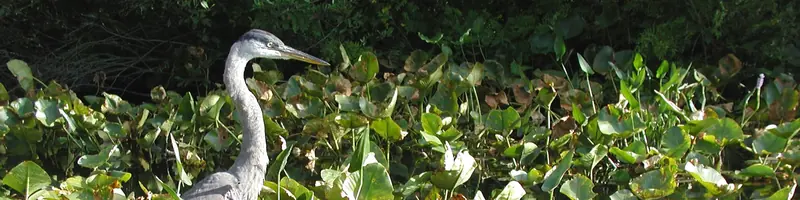
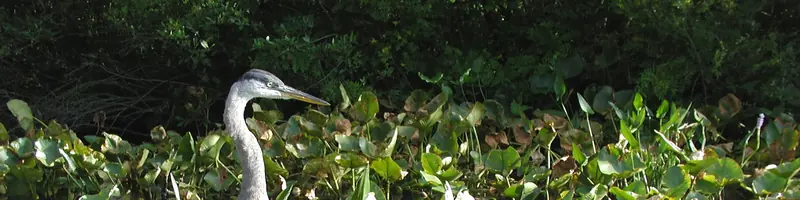
Draft 81: the heron first (its first framing restored), the flying squirrel second, then colour and grey alternating
Claude-Session: https://claude.ai/code/session_01HMuVy4MP32mW96WdEuAjrt

diff --git a/index.html b/index.html
@@ -61,9 +61,9 @@ document.documentElement.classList.add('js');try{var t=localStorage.getItem('ps-
   (https://www.facebook.com/projectscroll/) that you came in through the back door.
 -->
 <a class="skip" href="#main">Skip to the content</a>
-<aside class="masthead" id="masthead" aria-label="Plates from the record" data-set="rogers|Rogers, History of Cass County, 1875, p. 253|50% 38%|/document/;heron-leaves|A heron in the lily pads, autumn|50% 45%|;roadtotown|The road to town, Cassopolis, on an old postcard|50% 62%|/map/cassopolis/;wallmap|The 1860 wall map of the county, at the Library of Congress|50% 50%|/map/;broadway1|Broadway, Cassopolis, in the days of wagons|50% 55%|/map/cassopolis/;bellin|Bellin’s Carte des Lacs du Canada, 1744|50% 50%|;carriages|Carriages drawn up on Broadway, Cassopolis|50% 55%|/map/cassopolis/;squirrel|A flying squirrel over the water at night|50% 50%|;yerty|West side of Broadway looking south, Cassopolis, a Yerty postcard|50% 60%|/map/cassopolis/;wallmap2|The 1860 wall map, lower sheet|50% 50%|/map/;broadway3|Broadway, Cassopolis, when the first cars came|50% 55%|/map/cassopolis/;packtrain|Four men, a string of mules and a dusty street|50% 45%|/#hunt;spark|Light and fire meet|50% 50%|;broadway2|A Cassopolis street, early 1900s|50% 55%|/map/cassopolis/;school|A country schoolhouse in the oaks|50% 55%|/#cases">
-  <picture class="mh-pic on"><source media="(max-width:700px)" srcset="/img/strip/rogers-800.webp"><img src="/img/strip/rogers.webp" width="1600" height="400" alt="" fetchpriority="low" decoding="async"></picture>
-  <p class="mh-cap"><span class="mh-n">1 / 15</span> Rogers, History of Cass County, 1875, p. 253</p>
+<aside class="masthead" id="masthead" aria-label="Plates from the record" data-set="heron-leaves|A heron in the lily pads, autumn|50% 50%|;squirrel|A flying squirrel over the water at night|50% 50%|;rogers|Rogers, History of Cass County, 1875, p. 253|50% 38%|/document/;spark|Light and fire meet|50% 50%|;roadtotown|The road to town, Cassopolis, on an old postcard|50% 62%|/map/cassopolis/;wallmap|The 1860 wall map of the county, at the Library of Congress|50% 50%|/map/;broadway1|Broadway, Cassopolis, in the days of wagons|50% 55%|/map/cassopolis/;bellin|Bellin’s Carte des Lacs du Canada, 1744|50% 50%|;yerty|West side of Broadway looking south, Cassopolis, a Yerty postcard|50% 60%|/map/cassopolis/;wallmap2|The 1860 wall map, lower sheet|50% 50%|/map/;carriages|Carriages drawn up on Broadway, Cassopolis|50% 55%|/map/cassopolis/;broadway3|Broadway, Cassopolis, when the first cars came|50% 55%|/map/cassopolis/;packtrain|Four men, a string of mules and a dusty street|50% 45%|/#hunt;broadway2|A Cassopolis street, early 1900s|50% 55%|/map/cassopolis/;school|A country schoolhouse in the oaks|50% 55%|/#cases">
+  <picture class="mh-pic on"><source media="(max-width:700px)" srcset="/img/strip/heron-leaves-800.webp"><img src="/img/strip/heron-leaves.webp" width="1600" height="400" alt="" fetchpriority="low" decoding="async"></picture>
+  <p class="mh-cap"><span class="mh-n">1 / 15</span> A heron in the lily pads, autumn</p>
   <button type="button" class="mh-next" aria-label="Next plate" title="Next plate">›</button>
 </aside>
 <header class="bar"><span class="progress" aria-hidden="true"></span>

diff --git a/404.html b/404.html
@@ -33,9 +33,9 @@
 </head>
 <body>
 <a class="skip" href="#main">Skip to the content</a>
-<aside class="masthead" id="masthead" aria-label="Plates from the record" data-set="rogers|Rogers, History of Cass County, 1875, p. 253|50% 38%|/document/;heron-leaves|A heron in the lily pads, autumn|50% 45%|;roadtotown|The road to town, Cassopolis, on an old postcard|50% 62%|/map/cassopolis/;wallmap|The 1860 wall map of the county, at the Library of Congress|50% 50%|/map/;broadway1|Broadway, Cassopolis, in the days of wagons|50% 55%|/map/cassopolis/;bellin|Bellin’s Carte des Lacs du Canada, 1744|50% 50%|;carriages|Carriages drawn up on Broadway, Cassopolis|50% 55%|/map/cassopolis/;squirrel|A flying squirrel over the water at night|50% 50%|;yerty|West side of Broadway looking south, Cassopolis, a Yerty postcard|50% 60%|/map/cassopolis/;wallmap2|The 1860 wall map, lower sheet|50% 50%|/map/;broadway3|Broadway, Cassopolis, when the first cars came|50% 55%|/map/cassopolis/;packtrain|Four men, a string of mules and a dusty street|50% 45%|/#hunt;spark|Light and fire meet|50% 50%|;broadway2|A Cassopolis street, early 1900s|50% 55%|/map/cassopolis/;school|A country schoolhouse in the oaks|50% 55%|/#cases">
-  <picture class="mh-pic on"><source media="(max-width:700px)" srcset="/img/strip/rogers-800.webp"><img src="/img/strip/rogers.webp" width="1600" height="400" alt="" fetchpriority="low" decoding="async"></picture>
-  <p class="mh-cap"><span class="mh-n">1 / 15</span> Rogers, History of Cass County, 1875, p. 253</p>
+<aside class="masthead" id="masthead" aria-label="Plates from the record" data-set="heron-leaves|A heron in the lily pads, autumn|50% 50%|;squirrel|A flying squirrel over the water at night|50% 50%|;rogers|Rogers, History of Cass County, 1875, p. 253|50% 38%|/document/;spark|Light and fire meet|50% 50%|;roadtotown|The road to town, Cassopolis, on an old postcard|50% 62%|/map/cassopolis/;wallmap|The 1860 wall map of the county, at the Library of Congress|50% 50%|/map/;broadway1|Broadway, Cassopolis, in the days of wagons|50% 55%|/map/cassopolis/;bellin|Bellin’s Carte des Lacs du Canada, 1744|50% 50%|;yerty|West side of Broadway looking south, Cassopolis, a Yerty postcard|50% 60%|/map/cassopolis/;wallmap2|The 1860 wall map, lower sheet|50% 50%|/map/;carriages|Carriages drawn up on Broadway, Cassopolis|50% 55%|/map/cassopolis/;broadway3|Broadway, Cassopolis, when the first cars came|50% 55%|/map/cassopolis/;packtrain|Four men, a string of mules and a dusty street|50% 45%|/#hunt;broadway2|A Cassopolis street, early 1900s|50% 55%|/map/cassopolis/;school|A country schoolhouse in the oaks|50% 55%|/#cases">
+  <picture class="mh-pic on"><source media="(max-width:700px)" srcset="/img/strip/heron-leaves-800.webp"><img src="/img/strip/heron-leaves.webp" width="1600" height="400" alt="" fetchpriority="low" decoding="async"></picture>
+  <p class="mh-cap"><span class="mh-n">1 / 15</span> A heron in the lily pads, autumn</p>
   <button type="button" class="mh-next" aria-label="Next plate" title="Next plate">›</button>
 </aside>
 <header class="bar">

diff --git a/about/index.html b/about/index.html
@@ -33,9 +33,9 @@
 </head>
 <body>
 <a class="skip" href="#main">Skip to the content</a>
-<aside class="masthead" id="masthead" aria-label="Plates from the record" data-set="rogers|Rogers, History of Cass County, 1875, p. 253|50% 38%|/document/;heron-leaves|A heron in the lily pads, autumn|50% 45%|;roadtotown|The road to town, Cassopolis, on an old postcard|50% 62%|/map/cassopolis/;wallmap|The 1860 wall map of the county, at the Library of Congress|50% 50%|/map/;broadway1|Broadway, Cassopolis, in the days of wagons|50% 55%|/map/cassopolis/;bellin|Bellin’s Carte des Lacs du Canada, 1744|50% 50%|;carriages|Carriages drawn up on Broadway, Cassopolis|50% 55%|/map/cassopolis/;squirrel|A flying squirrel over the water at night|50% 50%|;yerty|West side of Broadway looking south, Cassopolis, a Yerty postcard|50% 60%|/map/cassopolis/;wallmap2|The 1860 wall map, lower sheet|50% 50%|/map/;broadway3|Broadway, Cassopolis, when the first cars came|50% 55%|/map/cassopolis/;packtrain|Four men, a string of mules and a dusty street|50% 45%|/#hunt;spark|Light and fire meet|50% 50%|;broadway2|A Cassopolis street, early 1900s|50% 55%|/map/cassopolis/;school|A country schoolhouse in the oaks|50% 55%|/#cases">
-  <picture class="mh-pic on"><source media="(max-width:700px)" srcset="/img/strip/rogers-800.webp"><img src="/img/strip/rogers.webp" width="1600" height="400" alt="" fetchpriority="low" decoding="async"></picture>
-  <p class="mh-cap"><span class="mh-n">1 / 15</span> Rogers, History of Cass County, 1875, p. 253</p>
+<aside class="masthead" id="masthead" aria-label="Plates from the record" data-set="heron-leaves|A heron in the lily pads, autumn|50% 50%|;squirrel|A flying squirrel over the water at night|50% 50%|;rogers|Rogers, History of Cass County, 1875, p. 253|50% 38%|/document/;spark|Light and fire meet|50% 50%|;roadtotown|The road to town, Cassopolis, on an old postcard|50% 62%|/map/cassopolis/;wallmap|The 1860 wall map of the county, at the Library of Congress|50% 50%|/map/;broadway1|Broadway, Cassopolis, in the days of wagons|50% 55%|/map/cassopolis/;bellin|Bellin’s Carte des Lacs du Canada, 1744|50% 50%|;yerty|West side of Broadway looking south, Cassopolis, a Yerty postcard|50% 60%|/map/cassopolis/;wallmap2|The 1860 wall map, lower sheet|50% 50%|/map/;carriages|Carriages drawn up on Broadway, Cassopolis|50% 55%|/map/cassopolis/;broadway3|Broadway, Cassopolis, when the first cars came|50% 55%|/map/cassopolis/;packtrain|Four men, a string of mules and a dusty street|50% 45%|/#hunt;broadway2|A Cassopolis street, early 1900s|50% 55%|/map/cassopolis/;school|A country schoolhouse in the oaks|50% 55%|/#cases">
+  <picture class="mh-pic on"><source media="(max-width:700px)" srcset="/img/strip/heron-leaves-800.webp"><img src="/img/strip/heron-leaves.webp" width="1600" height="400" alt="" fetchpriority="low" decoding="async"></picture>
+  <p class="mh-cap"><span class="mh-n">1 / 15</span> A heron in the lily pads, autumn</p>
   <button type="button" class="mh-next" aria-label="Next plate" title="Next plate">›</button>
 </aside>
 <header class="bar">

diff --git a/badges/index.html b/badges/index.html
@@ -33,9 +33,9 @@
 </head>
 <body>
 <a class="skip" href="#main">Skip to the content</a>
-<aside class="masthead" id="masthead" aria-label="Plates from the record" data-set="rogers|Rogers, History of Cass County, 1875, p. 253|50% 38%|/document/;heron-leaves|A heron in the lily pads, autumn|50% 45%|;roadtotown|The road to town, Cassopolis, on an old postcard|50% 62%|/map/cassopolis/;wallmap|The 1860 wall map of the county, at the Library of Congress|50% 50%|/map/;broadway1|Broadway, Cassopolis, in the days of wagons|50% 55%|/map/cassopolis/;bellin|Bellin’s Carte des Lacs du Canada, 1744|50% 50%|;carriages|Carriages drawn up on Broadway, Cassopolis|50% 55%|/map/cassopolis/;squirrel|A flying squirrel over the water at night|50% 50%|;yerty|West side of Broadway looking south, Cassopolis, a Yerty postcard|50% 60%|/map/cassopolis/;wallmap2|The 1860 wall map, lower sheet|50% 50%|/map/;broadway3|Broadway, Cassopolis, when the first cars came|50% 55%|/map/cassopolis/;packtrain|Four men, a string of mules and a dusty street|50% 45%|/#hunt;spark|Light and fire meet|50% 50%|;broadway2|A Cassopolis street, early 1900s|50% 55%|/map/cassopolis/;school|A country schoolhouse in the oaks|50% 55%|/#cases">
-  <picture class="mh-pic on"><source media="(max-width:700px)" srcset="/img/strip/rogers-800.webp"><img src="/img/strip/rogers.webp" width="1600" height="400" alt="" fetchpriority="low" decoding="async"></picture>
-  <p class="mh-cap"><span class="mh-n">1 / 15</span> Rogers, History of Cass County, 1875, p. 253</p>
+<aside class="masthead" id="masthead" aria-label="Plates from the record" data-set="heron-leaves|A heron in the lily pads, autumn|50% 50%|;squirrel|A flying squirrel over the water at night|50% 50%|;rogers|Rogers, History of Cass County, 1875, p. 253|50% 38%|/document/;spark|Light and fire meet|50% 50%|;roadtotown|The road to town, Cassopolis, on an old postcard|50% 62%|/map/cassopolis/;wallmap|The 1860 wall map of the county, at the Library of Congress|50% 50%|/map/;broadway1|Broadway, Cassopolis, in the days of wagons|50% 55%|/map/cassopolis/;bellin|Bellin’s Carte des Lacs du Canada, 1744|50% 50%|;yerty|West side of Broadway looking south, Cassopolis, a Yerty postcard|50% 60%|/map/cassopolis/;wallmap2|The 1860 wall map, lower sheet|50% 50%|/map/;carriages|Carriages drawn up on Broadway, Cassopolis|50% 55%|/map/cassopolis/;broadway3|Broadway, Cassopolis, when the first cars came|50% 55%|/map/cassopolis/;packtrain|Four men, a string of mules and a dusty street|50% 45%|/#hunt;broadway2|A Cassopolis street, early 1900s|50% 55%|/map/cassopolis/;school|A country schoolhouse in the oaks|50% 55%|/#cases">
+  <picture class="mh-pic on"><source media="(max-width:700px)" srcset="/img/strip/heron-leaves-800.webp"><img src="/img/strip/heron-leaves.webp" width="1600" height="400" alt="" fetchpriority="low" decoding="async"></picture>
+  <p class="mh-cap"><span class="mh-n">1 / 15</span> A heron in the lily pads, autumn</p>
   <button type="button" class="mh-next" aria-label="Next plate" title="Next plate">›</button>
 </aside>
 <header class="bar">

diff --git a/cases/1/index.html b/cases/1/index.html
@@ -33,9 +33,9 @@
 </head>
 <body>
 <a class="skip" href="#main">Skip to the content</a>
-<aside class="masthead" id="masthead" aria-label="Plates from the record" data-set="rogers|Rogers, History of Cass County, 1875, p. 253|50% 38%|/document/;heron-leaves|A heron in the lily pads, autumn|50% 45%|;roadtotown|The road to town, Cassopolis, on an old postcard|50% 62%|/map/cassopolis/;wallmap|The 1860 wall map of the county, at the Library of Congress|50% 50%|/map/;broadway1|Broadway, Cassopolis, in the days of wagons|50% 55%|/map/cassopolis/;bellin|Bellin’s Carte des Lacs du Canada, 1744|50% 50%|;carriages|Carriages drawn up on Broadway, Cassopolis|50% 55%|/map/cassopolis/;squirrel|A flying squirrel over the water at night|50% 50%|;yerty|West side of Broadway looking south, Cassopolis, a Yerty postcard|50% 60%|/map/cassopolis/;wallmap2|The 1860 wall map, lower sheet|50% 50%|/map/;broadway3|Broadway, Cassopolis, when the first cars came|50% 55%|/map/cassopolis/;packtrain|Four men, a string of mules and a dusty street|50% 45%|/#hunt;spark|Light and fire meet|50% 50%|;broadway2|A Cassopolis street, early 1900s|50% 55%|/map/cassopolis/;school|A country schoolhouse in the oaks|50% 55%|/#cases">
-  <picture class="mh-pic on"><source media="(max-width:700px)" srcset="/img/strip/rogers-800.webp"><img src="/img/strip/rogers.webp" width="1600" height="400" alt="" fetchpriority="low" decoding="async"></picture>
-  <p class="mh-cap"><span class="mh-n">1 / 15</span> Rogers, History of Cass County, 1875, p. 253</p>
+<aside class="masthead" id="masthead" aria-label="Plates from the record" data-set="heron-leaves|A heron in the lily pads, autumn|50% 50%|;squirrel|A flying squirrel over the water at night|50% 50%|;rogers|Rogers, History of Cass County, 1875, p. 253|50% 38%|/document/;spark|Light and fire meet|50% 50%|;roadtotown|The road to town, Cassopolis, on an old postcard|50% 62%|/map/cassopolis/;wallmap|The 1860 wall map of the county, at the Library of Congress|50% 50%|/map/;broadway1|Broadway, Cassopolis, in the days of wagons|50% 55%|/map/cassopolis/;bellin|Bellin’s Carte des Lacs du Canada, 1744|50% 50%|;yerty|West side of Broadway looking south, Cassopolis, a Yerty postcard|50% 60%|/map/cassopolis/;wallmap2|The 1860 wall map, lower sheet|50% 50%|/map/;carriages|Carriages drawn up on Broadway, Cassopolis|50% 55%|/map/cassopolis/;broadway3|Broadway, Cassopolis, when the first cars came|50% 55%|/map/cassopolis/;packtrain|Four men, a string of mules and a dusty street|50% 45%|/#hunt;broadway2|A Cassopolis street, early 1900s|50% 55%|/map/cassopolis/;school|A country schoolhouse in the oaks|50% 55%|/#cases">
+  <picture class="mh-pic on"><source media="(max-width:700px)" srcset="/img/strip/heron-leaves-800.webp"><img src="/img/strip/heron-leaves.webp" width="1600" height="400" alt="" fetchpriority="low" decoding="async"></picture>
+  <p class="mh-cap"><span class="mh-n">1 / 15</span> A heron in the lily pads, autumn</p>
   <button type="button" class="mh-next" aria-label="Next plate" title="Next plate">›</button>
 </aside>
 <header class="bar">

diff --git a/cases/10/index.html b/cases/10/index.html
@@ -33,9 +33,9 @@
 </head>
 <body>
 <a class="skip" href="#main">Skip to the content</a>
-<aside class="masthead" id="masthead" aria-label="Plates from the record" data-set="rogers|Rogers, History of Cass County, 1875, p. 253|50% 38%|/document/;heron-leaves|A heron in the lily pads, autumn|50% 45%|;roadtotown|The road to town, Cassopolis, on an old postcard|50% 62%|/map/cassopolis/;wallmap|The 1860 wall map of the county, at the Library of Congress|50% 50%|/map/;broadway1|Broadway, Cassopolis, in the days of wagons|50% 55%|/map/cassopolis/;bellin|Bellin’s Carte des Lacs du Canada, 1744|50% 50%|;carriages|Carriages drawn up on Broadway, Cassopolis|50% 55%|/map/cassopolis/;squirrel|A flying squirrel over the water at night|50% 50%|;yerty|West side of Broadway looking south, Cassopolis, a Yerty postcard|50% 60%|/map/cassopolis/;wallmap2|The 1860 wall map, lower sheet|50% 50%|/map/;broadway3|Broadway, Cassopolis, when the first cars came|50% 55%|/map/cassopolis/;packtrain|Four men, a string of mules and a dusty street|50% 45%|/#hunt;spark|Light and fire meet|50% 50%|;broadway2|A Cassopolis street, early 1900s|50% 55%|/map/cassopolis/;school|A country schoolhouse in the oaks|50% 55%|/#cases">
-  <picture class="mh-pic on"><source media="(max-width:700px)" srcset="/img/strip/rogers-800.webp"><img src="/img/strip/rogers.webp" width="1600" height="400" alt="" fetchpriority="low" decoding="async"></picture>
-  <p class="mh-cap"><span class="mh-n">1 / 15</span> Rogers, History of Cass County, 1875, p. 253</p>
+<aside class="masthead" id="masthead" aria-label="Plates from the record" data-set="heron-leaves|A heron in the lily pads, autumn|50% 50%|;squirrel|A flying squirrel over the water at night|50% 50%|;rogers|Rogers, History of Cass County, 1875, p. 253|50% 38%|/document/;spark|Light and fire meet|50% 50%|;roadtotown|The road to town, Cassopolis, on an old postcard|50% 62%|/map/cassopolis/;wallmap|The 1860 wall map of the county, at the Library of Congress|50% 50%|/map/;broadway1|Broadway, Cassopolis, in the days of wagons|50% 55%|/map/cassopolis/;bellin|Bellin’s Carte des Lacs du Canada, 1744|50% 50%|;yerty|West side of Broadway looking south, Cassopolis, a Yerty postcard|50% 60%|/map/cassopolis/;wallmap2|The 1860 wall map, lower sheet|50% 50%|/map/;carriages|Carriages drawn up on Broadway, Cassopolis|50% 55%|/map/cassopolis/;broadway3|Broadway, Cassopolis, when the first cars came|50% 55%|/map/cassopolis/;packtrain|Four men, a string of mules and a dusty street|50% 45%|/#hunt;broadway2|A Cassopolis street, early 1900s|50% 55%|/map/cassopolis/;school|A country schoolhouse in the oaks|50% 55%|/#cases">
+  <picture class="mh-pic on"><source media="(max-width:700px)" srcset="/img/strip/heron-leaves-800.webp"><img src="/img/strip/heron-leaves.webp" width="1600" height="400" alt="" fetchpriority="low" decoding="async"></picture>
+  <p class="mh-cap"><span class="mh-n">1 / 15</span> A heron in the lily pads, autumn</p>
   <button type="button" class="mh-next" aria-label="Next plate" title="Next plate">›</button>
 </aside>
 <header class="bar">

diff --git a/cases/2/index.html b/cases/2/index.html
@@ -33,9 +33,9 @@
 </head>
 <body>
 <a class="skip" href="#main">Skip to the content</a>
-<aside class="masthead" id="masthead" aria-label="Plates from the record" data-set="rogers|Rogers, History of Cass County, 1875, p. 253|50% 38%|/document/;heron-leaves|A heron in the lily pads, autumn|50% 45%|;roadtotown|The road to town, Cassopolis, on an old postcard|50% 62%|/map/cassopolis/;wallmap|The 1860 wall map of the county, at the Library of Congress|50% 50%|/map/;broadway1|Broadway, Cassopolis, in the days of wagons|50% 55%|/map/cassopolis/;bellin|Bellin’s Carte des Lacs du Canada, 1744|50% 50%|;carriages|Carriages drawn up on Broadway, Cassopolis|50% 55%|/map/cassopolis/;squirrel|A flying squirrel over the water at night|50% 50%|;yerty|West side of Broadway looking south, Cassopolis, a Yerty postcard|50% 60%|/map/cassopolis/;wallmap2|The 1860 wall map, lower sheet|50% 50%|/map/;broadway3|Broadway, Cassopolis, when the first cars came|50% 55%|/map/cassopolis/;packtrain|Four men, a string of mules and a dusty street|50% 45%|/#hunt;spark|Light and fire meet|50% 50%|;broadway2|A Cassopolis street, early 1900s|50% 55%|/map/cassopolis/;school|A country schoolhouse in the oaks|50% 55%|/#cases">
-  <picture class="mh-pic on"><source media="(max-width:700px)" srcset="/img/strip/rogers-800.webp"><img src="/img/strip/rogers.webp" width="1600" height="400" alt="" fetchpriority="low" decoding="async"></picture>
-  <p class="mh-cap"><span class="mh-n">1 / 15</span> Rogers, History of Cass County, 1875, p. 253</p>
+<aside class="masthead" id="masthead" aria-label="Plates from the record" data-set="heron-leaves|A heron in the lily pads, autumn|50% 50%|;squirrel|A flying squirrel over the water at night|50% 50%|;rogers|Rogers, History of Cass County, 1875, p. 253|50% 38%|/document/;spark|Light and fire meet|50% 50%|;roadtotown|The road to town, Cassopolis, on an old postcard|50% 62%|/map/cassopolis/;wallmap|The 1860 wall map of the county, at the Library of Congress|50% 50%|/map/;broadway1|Broadway, Cassopolis, in the days of wagons|50% 55%|/map/cassopolis/;bellin|Bellin’s Carte des Lacs du Canada, 1744|50% 50%|;yerty|West side of Broadway looking south, Cassopolis, a Yerty postcard|50% 60%|/map/cassopolis/;wallmap2|The 1860 wall map, lower sheet|50% 50%|/map/;carriages|Carriages drawn up on Broadway, Cassopolis|50% 55%|/map/cassopolis/;broadway3|Broadway, Cassopolis, when the first cars came|50% 55%|/map/cassopolis/;packtrain|Four men, a string of mules and a dusty street|50% 45%|/#hunt;broadway2|A Cassopolis street, early 1900s|50% 55%|/map/cassopolis/;school|A country schoolhouse in the oaks|50% 55%|/#cases">
+  <picture class="mh-pic on"><source media="(max-width:700px)" srcset="/img/strip/heron-leaves-800.webp"><img src="/img/strip/heron-leaves.webp" width="1600" height="400" alt="" fetchpriority="low" decoding="async"></picture>
+  <p class="mh-cap"><span class="mh-n">1 / 15</span> A heron in the lily pads, autumn</p>
   <button type="button" class="mh-next" aria-label="Next plate" title="Next plate">›</button>
 </aside>
 <header class="bar">

diff --git a/cases/3/index.html b/cases/3/index.html
@@ -33,9 +33,9 @@
 </head>
 <body>
 <a class="skip" href="#main">Skip to the content</a>
-<aside class="masthead" id="masthead" aria-label="Plates from the record" data-set="rogers|Rogers, History of Cass County, 1875, p. 253|50% 38%|/document/;heron-leaves|A heron in the lily pads, autumn|50% 45%|;roadtotown|The road to town, Cassopolis, on an old postcard|50% 62%|/map/cassopolis/;wallmap|The 1860 wall map of the county, at the Library of Congress|50% 50%|/map/;broadway1|Broadway, Cassopolis, in the days of wagons|50% 55%|/map/cassopolis/;bellin|Bellin’s Carte des Lacs du Canada, 1744|50% 50%|;carriages|Carriages drawn up on Broadway, Cassopolis|50% 55%|/map/cassopolis/;squirrel|A flying squirrel over the water at night|50% 50%|;yerty|West side of Broadway looking south, Cassopolis, a Yerty postcard|50% 60%|/map/cassopolis/;wallmap2|The 1860 wall map, lower sheet|50% 50%|/map/;broadway3|Broadway, Cassopolis, when the first cars came|50% 55%|/map/cassopolis/;packtrain|Four men, a string of mules and a dusty street|50% 45%|/#hunt;spark|Light and fire meet|50% 50%|;broadway2|A Cassopolis street, early 1900s|50% 55%|/map/cassopolis/;school|A country schoolhouse in the oaks|50% 55%|/#cases">
-  <picture class="mh-pic on"><source media="(max-width:700px)" srcset="/img/strip/rogers-800.webp"><img src="/img/strip/rogers.webp" width="1600" height="400" alt="" fetchpriority="low" decoding="async"></picture>
-  <p class="mh-cap"><span class="mh-n">1 / 15</span> Rogers, History of Cass County, 1875, p. 253</p>
+<aside class="masthead" id="masthead" aria-label="Plates from the record" data-set="heron-leaves|A heron in the lily pads, autumn|50% 50%|;squirrel|A flying squirrel over the water at night|50% 50%|;rogers|Rogers, History of Cass County, 1875, p. 253|50% 38%|/document/;spark|Light and fire meet|50% 50%|;roadtotown|The road to town, Cassopolis, on an old postcard|50% 62%|/map/cassopolis/;wallmap|The 1860 wall map of the county, at the Library of Congress|50% 50%|/map/;broadway1|Broadway, Cassopolis, in the days of wagons|50% 55%|/map/cassopolis/;bellin|Bellin’s Carte des Lacs du Canada, 1744|50% 50%|;yerty|West side of Broadway looking south, Cassopolis, a Yerty postcard|50% 60%|/map/cassopolis/;wallmap2|The 1860 wall map, lower sheet|50% 50%|/map/;carriages|Carriages drawn up on Broadway, Cassopolis|50% 55%|/map/cassopolis/;broadway3|Broadway, Cassopolis, when the first cars came|50% 55%|/map/cassopolis/;packtrain|Four men, a string of mules and a dusty street|50% 45%|/#hunt;broadway2|A Cassopolis street, early 1900s|50% 55%|/map/cassopolis/;school|A country schoolhouse in the oaks|50% 55%|/#cases">
+  <picture class="mh-pic on"><source media="(max-width:700px)" srcset="/img/strip/heron-leaves-800.webp"><img src="/img/strip/heron-leaves.webp" width="1600" height="400" alt="" fetchpriority="low" decoding="async"></picture>
+  <p class="mh-cap"><span class="mh-n">1 / 15</span> A heron in the lily pads, autumn</p>
   <button type="button" class="mh-next" aria-label="Next plate" title="Next plate">›</button>
 </aside>
 <header class="bar">

diff --git a/cases/4/index.html b/cases/4/index.html
@@ -33,9 +33,9 @@
 </head>
 <body>
 <a class="skip" href="#main">Skip to the content</a>
-<aside class="masthead" id="masthead" aria-label="Plates from the record" data-set="rogers|Rogers, History of Cass County, 1875, p. 253|50% 38%|/document/;heron-leaves|A heron in the lily pads, autumn|50% 45%|;roadtotown|The road to town, Cassopolis, on an old postcard|50% 62%|/map/cassopolis/;wallmap|The 1860 wall map of the county, at the Library of Congress|50% 50%|/map/;broadway1|Broadway, Cassopolis, in the days of wagons|50% 55%|/map/cassopolis/;bellin|Bellin’s Carte des Lacs du Canada, 1744|50% 50%|;carriages|Carriages drawn up on Broadway, Cassopolis|50% 55%|/map/cassopolis/;squirrel|A flying squirrel over the water at night|50% 50%|;yerty|West side of Broadway looking south, Cassopolis, a Yerty postcard|50% 60%|/map/cassopolis/;wallmap2|The 1860 wall map, lower sheet|50% 50%|/map/;broadway3|Broadway, Cassopolis, when the first cars came|50% 55%|/map/cassopolis/;packtrain|Four men, a string of mules and a dusty street|50% 45%|/#hunt;spark|Light and fire meet|50% 50%|;broadway2|A Cassopolis street, early 1900s|50% 55%|/map/cassopolis/;school|A country schoolhouse in the oaks|50% 55%|/#cases">
-  <picture class="mh-pic on"><source media="(max-width:700px)" srcset="/img/strip/rogers-800.webp"><img src="/img/strip/rogers.webp" width="1600" height="400" alt="" fetchpriority="low" decoding="async"></picture>
-  <p class="mh-cap"><span class="mh-n">1 / 15</span> Rogers, History of Cass County, 1875, p. 253</p>
+<aside class="masthead" id="masthead" aria-label="Plates from the record" data-set="heron-leaves|A heron in the lily pads, autumn|50% 50%|;squirrel|A flying squirrel over the water at night|50% 50%|;rogers|Rogers, History of Cass County, 1875, p. 253|50% 38%|/document/;spark|Light and fire meet|50% 50%|;roadtotown|The road to town, Cassopolis, on an old postcard|50% 62%|/map/cassopolis/;wallmap|The 1860 wall map of the county, at the Library of Congress|50% 50%|/map/;broadway1|Broadway, Cassopolis, in the days of wagons|50% 55%|/map/cassopolis/;bellin|Bellin’s Carte des Lacs du Canada, 1744|50% 50%|;yerty|West side of Broadway looking south, Cassopolis, a Yerty postcard|50% 60%|/map/cassopolis/;wallmap2|The 1860 wall map, lower sheet|50% 50%|/map/;carriages|Carriages drawn up on Broadway, Cassopolis|50% 55%|/map/cassopolis/;broadway3|Broadway, Cassopolis, when the first cars came|50% 55%|/map/cassopolis/;packtrain|Four men, a string of mules and a dusty street|50% 45%|/#hunt;broadway2|A Cassopolis street, early 1900s|50% 55%|/map/cassopolis/;school|A country schoolhouse in the oaks|50% 55%|/#cases">
+  <picture class="mh-pic on"><source media="(max-width:700px)" srcset="/img/strip/heron-leaves-800.webp"><img src="/img/strip/heron-leaves.webp" width="1600" height="400" alt="" fetchpriority="low" decoding="async"></picture>
+  <p class="mh-cap"><span class="mh-n">1 / 15</span> A heron in the lily pads, autumn</p>
   <button type="button" class="mh-next" aria-label="Next plate" title="Next plate">›</button>
 </aside>
 <header class="bar">

diff --git a/cases/5/index.html b/cases/5/index.html
@@ -33,9 +33,9 @@
 </head>
 <body>
 <a class="skip" href="#main">Skip to the content</a>
-<aside class="masthead" id="masthead" aria-label="Plates from the record" data-set="rogers|Rogers, History of Cass County, 1875, p. 253|50% 38%|/document/;heron-leaves|A heron in the lily pads, autumn|50% 45%|;roadtotown|The road to town, Cassopolis, on an old postcard|50% 62%|/map/cassopolis/;wallmap|The 1860 wall map of the county, at the Library of Congress|50% 50%|/map/;broadway1|Broadway, Cassopolis, in the days of wagons|50% 55%|/map/cassopolis/;bellin|Bellin’s Carte des Lacs du Canada, 1744|50% 50%|;carriages|Carriages drawn up on Broadway, Cassopolis|50% 55%|/map/cassopolis/;squirrel|A flying squirrel over the water at night|50% 50%|;yerty|West side of Broadway looking south, Cassopolis, a Yerty postcard|50% 60%|/map/cassopolis/;wallmap2|The 1860 wall map, lower sheet|50% 50%|/map/;broadway3|Broadway, Cassopolis, when the first cars came|50% 55%|/map/cassopolis/;packtrain|Four men, a string of mules and a dusty street|50% 45%|/#hunt;spark|Light and fire meet|50% 50%|;broadway2|A Cassopolis street, early 1900s|50% 55%|/map/cassopolis/;school|A country schoolhouse in the oaks|50% 55%|/#cases">
-  <picture class="mh-pic on"><source media="(max-width:700px)" srcset="/img/strip/rogers-800.webp"><img src="/img/strip/rogers.webp" width="1600" height="400" alt="" fetchpriority="low" decoding="async"></picture>
-  <p class="mh-cap"><span class="mh-n">1 / 15</span> Rogers, History of Cass County, 1875, p. 253</p>
+<aside class="masthead" id="masthead" aria-label="Plates from the record" data-set="heron-leaves|A heron in the lily pads, autumn|50% 50%|;squirrel|A flying squirrel over the water at night|50% 50%|;rogers|Rogers, History of Cass County, 1875, p. 253|50% 38%|/document/;spark|Light and fire meet|50% 50%|;roadtotown|The road to town, Cassopolis, on an old postcard|50% 62%|/map/cassopolis/;wallmap|The 1860 wall map of the county, at the Library of Congress|50% 50%|/map/;broadway1|Broadway, Cassopolis, in the days of wagons|50% 55%|/map/cassopolis/;bellin|Bellin’s Carte des Lacs du Canada, 1744|50% 50%|;yerty|West side of Broadway looking south, Cassopolis, a Yerty postcard|50% 60%|/map/cassopolis/;wallmap2|The 1860 wall map, lower sheet|50% 50%|/map/;carriages|Carriages drawn up on Broadway, Cassopolis|50% 55%|/map/cassopolis/;broadway3|Broadway, Cassopolis, when the first cars came|50% 55%|/map/cassopolis/;packtrain|Four men, a string of mules and a dusty street|50% 45%|/#hunt;broadway2|A Cassopolis street, early 1900s|50% 55%|/map/cassopolis/;school|A country schoolhouse in the oaks|50% 55%|/#cases">
+  <picture class="mh-pic on"><source media="(max-width:700px)" srcset="/img/strip/heron-leaves-800.webp"><img src="/img/strip/heron-leaves.webp" width="1600" height="400" alt="" fetchpriority="low" decoding="async"></picture>
+  <p class="mh-cap"><span class="mh-n">1 / 15</span> A heron in the lily pads, autumn</p>
   <button type="button" class="mh-next" aria-label="Next plate" title="Next plate">›</button>
 </aside>
 <header class="bar">

diff --git a/cases/6/index.html b/cases/6/index.html
@@ -33,9 +33,9 @@
 </head>
 <body>
 <a class="skip" href="#main">Skip to the content</a>
-<aside class="masthead" id="masthead" aria-label="Plates from the record" data-set="rogers|Rogers, History of Cass County, 1875, p. 253|50% 38%|/document/;heron-leaves|A heron in the lily pads, autumn|50% 45%|;roadtotown|The road to town, Cassopolis, on an old postcard|50% 62%|/map/cassopolis/;wallmap|The 1860 wall map of the county, at the Library of Congress|50% 50%|/map/;broadway1|Broadway, Cassopolis, in the days of wagons|50% 55%|/map/cassopolis/;bellin|Bellin’s Carte des Lacs du Canada, 1744|50% 50%|;carriages|Carriages drawn up on Broadway, Cassopolis|50% 55%|/map/cassopolis/;squirrel|A flying squirrel over the water at night|50% 50%|;yerty|West side of Broadway looking south, Cassopolis, a Yerty postcard|50% 60%|/map/cassopolis/;wallmap2|The 1860 wall map, lower sheet|50% 50%|/map/;broadway3|Broadway, Cassopolis, when the first cars came|50% 55%|/map/cassopolis/;packtrain|Four men, a string of mules and a dusty street|50% 45%|/#hunt;spark|Light and fire meet|50% 50%|;broadway2|A Cassopolis street, early 1900s|50% 55%|/map/cassopolis/;school|A country schoolhouse in the oaks|50% 55%|/#cases">
-  <picture class="mh-pic on"><source media="(max-width:700px)" srcset="/img/strip/rogers-800.webp"><img src="/img/strip/rogers.webp" width="1600" height="400" alt="" fetchpriority="low" decoding="async"></picture>
-  <p class="mh-cap"><span class="mh-n">1 / 15</span> Rogers, History of Cass County, 1875, p. 253</p>
+<aside class="masthead" id="masthead" aria-label="Plates from the record" data-set="heron-leaves|A heron in the lily pads, autumn|50% 50%|;squirrel|A flying squirrel over the water at night|50% 50%|;rogers|Rogers, History of Cass County, 1875, p. 253|50% 38%|/document/;spark|Light and fire meet|50% 50%|;roadtotown|The road to town, Cassopolis, on an old postcard|50% 62%|/map/cassopolis/;wallmap|The 1860 wall map of the county, at the Library of Congress|50% 50%|/map/;broadway1|Broadway, Cassopolis, in the days of wagons|50% 55%|/map/cassopolis/;bellin|Bellin’s Carte des Lacs du Canada, 1744|50% 50%|;yerty|West side of Broadway looking south, Cassopolis, a Yerty postcard|50% 60%|/map/cassopolis/;wallmap2|The 1860 wall map, lower sheet|50% 50%|/map/;carriages|Carriages drawn up on Broadway, Cassopolis|50% 55%|/map/cassopolis/;broadway3|Broadway, Cassopolis, when the first cars came|50% 55%|/map/cassopolis/;packtrain|Four men, a string of mules and a dusty street|50% 45%|/#hunt;broadway2|A Cassopolis street, early 1900s|50% 55%|/map/cassopolis/;school|A country schoolhouse in the oaks|50% 55%|/#cases">
+  <picture class="mh-pic on"><source media="(max-width:700px)" srcset="/img/strip/heron-leaves-800.webp"><img src="/img/strip/heron-leaves.webp" width="1600" height="400" alt="" fetchpriority="low" decoding="async"></picture>
+  <p class="mh-cap"><span class="mh-n">1 / 15</span> A heron in the lily pads, autumn</p>
   <button type="button" class="mh-next" aria-label="Next plate" title="Next plate">›</button>
 </aside>
 <header class="bar">

diff --git a/cases/7/index.html b/cases/7/index.html
@@ -33,9 +33,9 @@
 </head>
 <body>
 <a class="skip" href="#main">Skip to the content</a>
-<aside class="masthead" id="masthead" aria-label="Plates from the record" data-set="rogers|Rogers, History of Cass County, 1875, p. 253|50% 38%|/document/;heron-leaves|A heron in the lily pads, autumn|50% 45%|;roadtotown|The road to town, Cassopolis, on an old postcard|50% 62%|/map/cassopolis/;wallmap|The 1860 wall map of the county, at the Library of Congress|50% 50%|/map/;broadway1|Broadway, Cassopolis, in the days of wagons|50% 55%|/map/cassopolis/;bellin|Bellin’s Carte des Lacs du Canada, 1744|50% 50%|;carriages|Carriages drawn up on Broadway, Cassopolis|50% 55%|/map/cassopolis/;squirrel|A flying squirrel over the water at night|50% 50%|;yerty|West side of Broadway looking south, Cassopolis, a Yerty postcard|50% 60%|/map/cassopolis/;wallmap2|The 1860 wall map, lower sheet|50% 50%|/map/;broadway3|Broadway, Cassopolis, when the first cars came|50% 55%|/map/cassopolis/;packtrain|Four men, a string of mules and a dusty street|50% 45%|/#hunt;spark|Light and fire meet|50% 50%|;broadway2|A Cassopolis street, early 1900s|50% 55%|/map/cassopolis/;school|A country schoolhouse in the oaks|50% 55%|/#cases">
-  <picture class="mh-pic on"><source media="(max-width:700px)" srcset="/img/strip/rogers-800.webp"><img src="/img/strip/rogers.webp" width="1600" height="400" alt="" fetchpriority="low" decoding="async"></picture>
-  <p class="mh-cap"><span class="mh-n">1 / 15</span> Rogers, History of Cass County, 1875, p. 253</p>
+<aside class="masthead" id="masthead" aria-label="Plates from the record" data-set="heron-leaves|A heron in the lily pads, autumn|50% 50%|;squirrel|A flying squirrel over the water at night|50% 50%|;rogers|Rogers, History of Cass County, 1875, p. 253|50% 38%|/document/;spark|Light and fire meet|50% 50%|;roadtotown|The road to town, Cassopolis, on an old postcard|50% 62%|/map/cassopolis/;wallmap|The 1860 wall map of the county, at the Library of Congress|50% 50%|/map/;broadway1|Broadway, Cassopolis, in the days of wagons|50% 55%|/map/cassopolis/;bellin|Bellin’s Carte des Lacs du Canada, 1744|50% 50%|;yerty|West side of Broadway looking south, Cassopolis, a Yerty postcard|50% 60%|/map/cassopolis/;wallmap2|The 1860 wall map, lower sheet|50% 50%|/map/;carriages|Carriages drawn up on Broadway, Cassopolis|50% 55%|/map/cassopolis/;broadway3|Broadway, Cassopolis, when the first cars came|50% 55%|/map/cassopolis/;packtrain|Four men, a string of mules and a dusty street|50% 45%|/#hunt;broadway2|A Cassopolis street, early 1900s|50% 55%|/map/cassopolis/;school|A country schoolhouse in the oaks|50% 55%|/#cases">
+  <picture class="mh-pic on"><source media="(max-width:700px)" srcset="/img/strip/heron-leaves-800.webp"><img src="/img/strip/heron-leaves.webp" width="1600" height="400" alt="" fetchpriority="low" decoding="async"></picture>
+  <p class="mh-cap"><span class="mh-n">1 / 15</span> A heron in the lily pads, autumn</p>
   <button type="button" class="mh-next" aria-label="Next plate" title="Next plate">›</button>
 </aside>
 <header class="bar">
